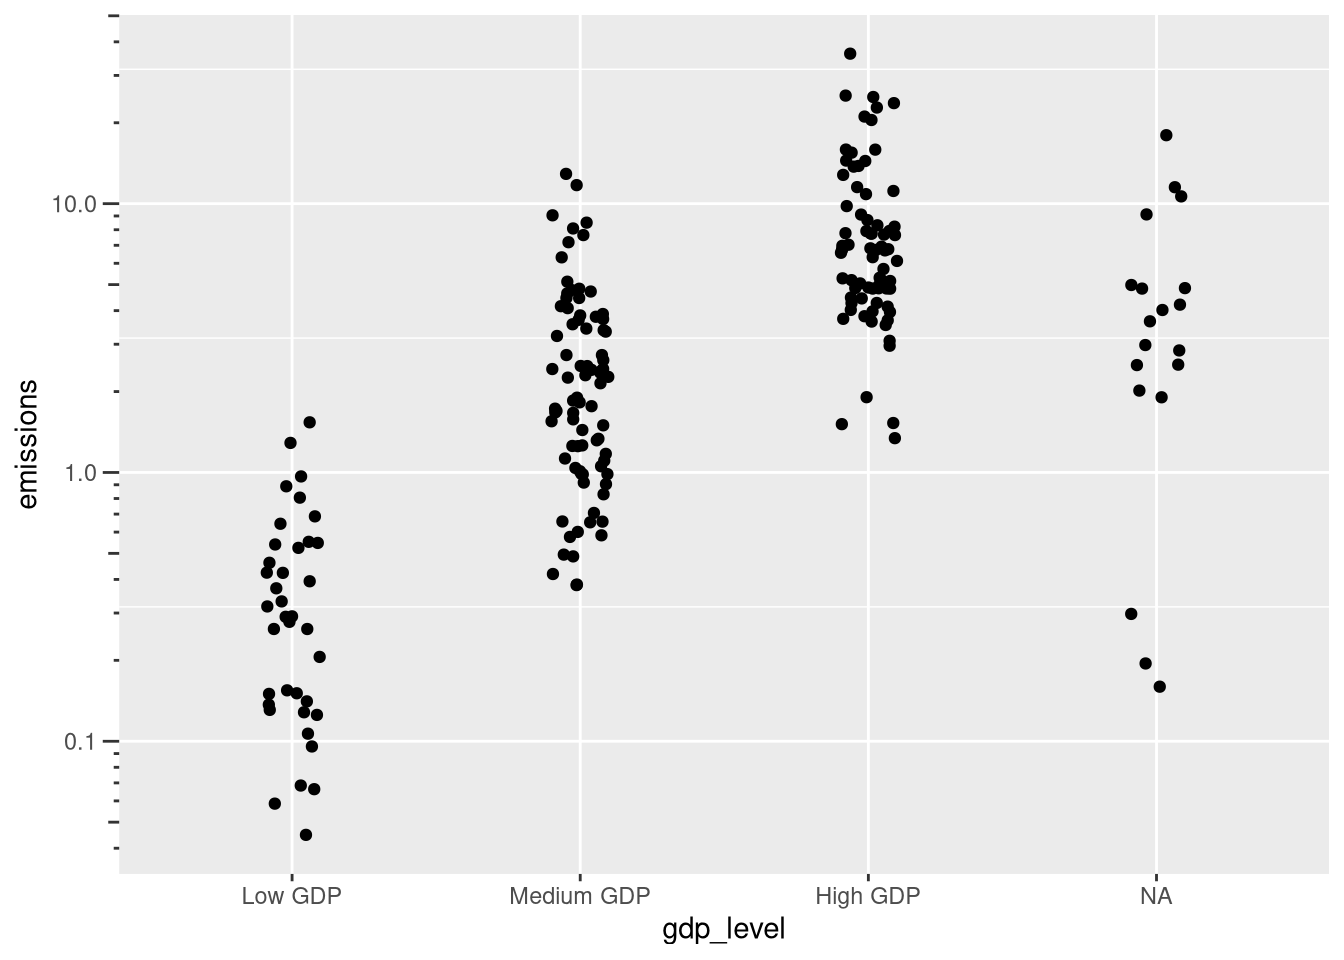
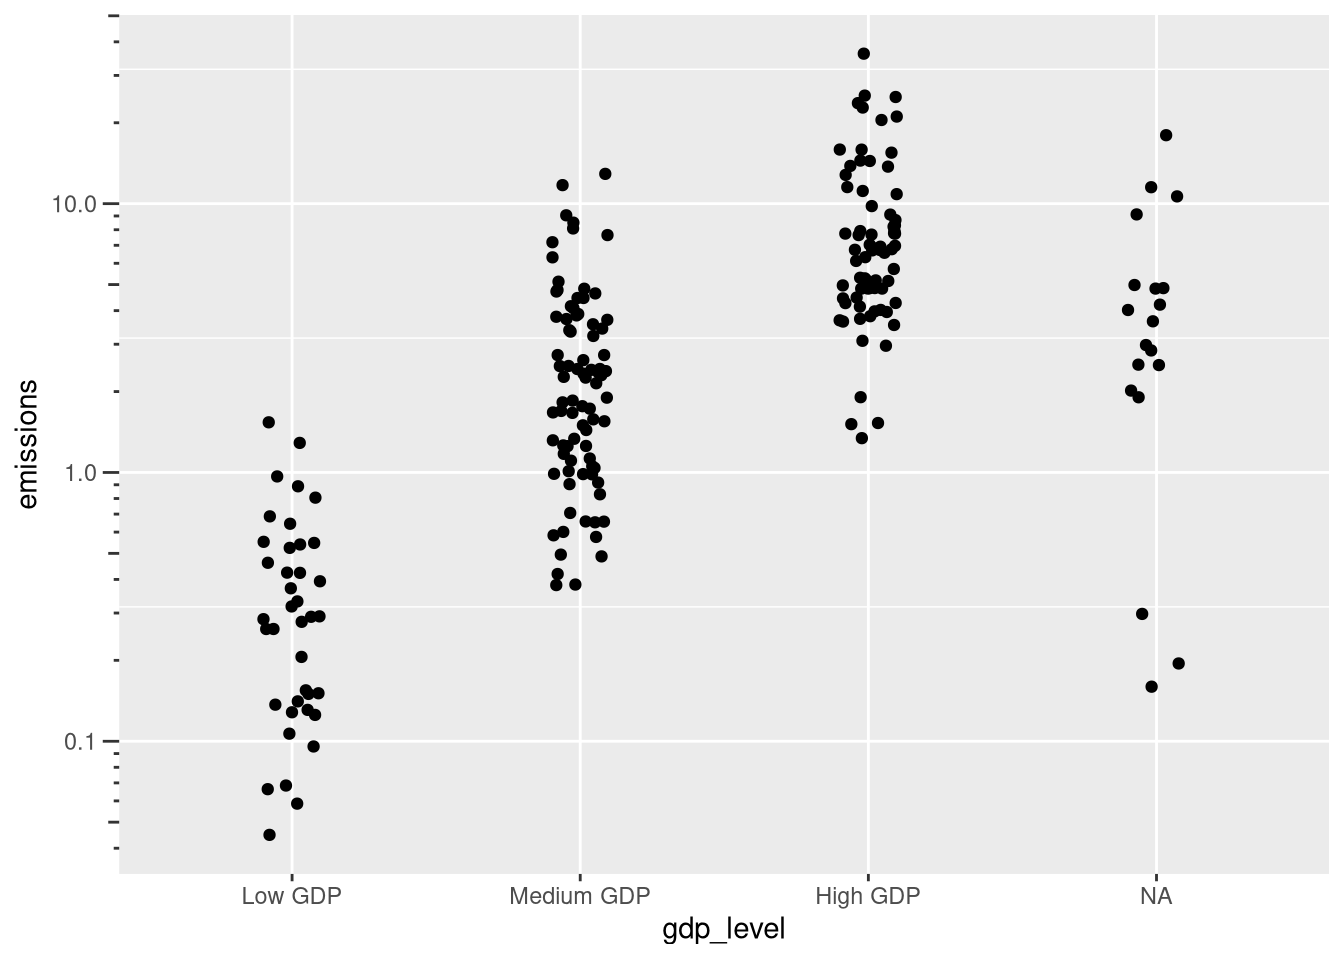
Built site for gh-pages

diff --git a/casestudy-russiantv.html b/casestudy-russiantv.html
@@ -607,25 +607,25 @@ Coefficients:
 
     <script>
       // Create table-specific functions using external factory
-      const tableFns_8jwqr6ajxb0kf2ckfnkp = TinyTable.createTableFunctions("tinytable_8jwqr6ajxb0kf2ckfnkp");
+      const tableFns_ovyquf9bfhemy3r7jgev = TinyTable.createTableFunctions("tinytable_ovyquf9bfhemy3r7jgev");
       // tinytable span after
       window.addEventListener('load', function () {
           var cellsToStyle = [
             // tinytable style arrays after
-          { positions: [ { i: '5', j: 2 }, { i: '5', j: 3 } ], css_id: 'tinytable_css_zzr68w9kdlm906glo2x7',}, 
-          { positions: [ { i: '3', j: 2 }, { i: '3', j: 3 } ], css_id: 'tinytable_css_hu5nlrqi4i80ql5340to',}, 
-          { positions: [ { i: '1', j: 2 }, { i: '2', j: 2 }, { i: '4', j: 2 }, { i: '1', j: 3 }, { i: '2', j: 3 }, { i: '4', j: 3 } ], css_id: 'tinytable_css_3wdfo0fb289xu79ceppo',}, 
-          { positions: [ { i: '0', j: 2 }, { i: '0', j: 3 } ], css_id: 'tinytable_css_uf6ou8qopa1rtyc8undp',}, 
-          { positions: [ { i: '5', j: 1 } ], css_id: 'tinytable_css_8b7qnewe60gjw511335b',}, 
-          { positions: [ { i: '3', j: 1 } ], css_id: 'tinytable_css_x076yketpejrcp84g8yp',}, 
-          { positions: [ { i: '1', j: 1 }, { i: '2', j: 1 }, { i: '4', j: 1 } ], css_id: 'tinytable_css_zzwcf379so7w7ry6woa0',}, 
-          { positions: [ { i: '0', j: 1 } ], css_id: 'tinytable_css_brjepgxdksvnj9o5ipqp',}, 
+          { positions: [ { i: '5', j: 2 }, { i: '5', j: 3 } ], css_id: 'tinytable_css_h3q77afd5m40k5takec2',}, 
+          { positions: [ { i: '3', j: 2 }, { i: '3', j: 3 } ], css_id: 'tinytable_css_e8yqaawf4k1b5vhmomdc',}, 
+          { positions: [ { i: '1', j: 2 }, { i: '2', j: 2 }, { i: '4', j: 2 }, { i: '1', j: 3 }, { i: '2', j: 3 }, { i: '4', j: 3 } ], css_id: 'tinytable_css_0io3rbuwyfp37hijxdfh',}, 
+          { positions: [ { i: '0', j: 2 }, { i: '0', j: 3 } ], css_id: 'tinytable_css_7hitr4jle2zg0gors1cu',}, 
+          { positions: [ { i: '5', j: 1 } ], css_id: 'tinytable_css_myno3lpi7fzjzax8vp7h',}, 
+          { positions: [ { i: '3', j: 1 } ], css_id: 'tinytable_css_39lb835f4ahaccj81fgu',}, 
+          { positions: [ { i: '1', j: 1 }, { i: '2', j: 1 }, { i: '4', j: 1 } ], css_id: 'tinytable_css_9wkvimfz0kmyf5eyolwc',}, 
+          { positions: [ { i: '0', j: 1 } ], css_id: 'tinytable_css_ynerbrkfg0nca6aa4p4l',}, 
           ];
 
           // Loop over the arrays to style the cells
           cellsToStyle.forEach(function (group) {
               group.positions.forEach(function (cell) {
-                  tableFns_8jwqr6ajxb0kf2ckfnkp.styleCell(cell.i, cell.j, group.css_id);
+                  tableFns_ovyquf9bfhemy3r7jgev.styleCell(cell.i, cell.j, group.css_id);
               });
           });
       });
@@ -634,17 +634,17 @@ Coefficients:
     <link rel="stylesheet" href="https://cdn.jsdelivr.net/gh/vincentarelbundock/tinytable@main/inst/tinytable.css">
     <style>
     /* tinytable css entries after */
-    #tinytable_8jwqr6ajxb0kf2ckfnkp td.tinytable_css_zzr68w9kdlm906glo2x7, #tinytable_8jwqr6ajxb0kf2ckfnkp th.tinytable_css_zzr68w9kdlm906glo2x7 {  position: relative; --border-bottom: 1; --border-left: 0; --border-right: 0; --border-top: 0; --line-color-bottom: var(--tt-line-color); --line-color-left: var(--tt-line-color); --line-color-right: var(--tt-line-color); --line-color-top: var(--tt-line-color); --line-width-bottom: 0.1em; --line-width-left: 0.1em; --line-width-right: 0.1em; --line-width-top: 0.1em; --trim-bottom-left: 0%; --trim-bottom-right: 0%; --trim-left-bottom: 0%; --trim-left-top: 0%; --trim-right-bottom: 0%; --trim-right-top: 0%; --trim-top-left: 0%; --trim-top-right: 0%; ; text-align: center }
-    #tinytable_8jwqr6ajxb0kf2ckfnkp td.tinytable_css_hu5nlrqi4i80ql5340to, #tinytable_8jwqr6ajxb0kf2ckfnkp th.tinytable_css_hu5nlrqi4i80ql5340to {  position: relative; --border-bottom: 1; --border-left: 0; --border-right: 0; --border-top: 0; --line-color-bottom: var(--tt-line-color); --line-color-left: var(--tt-line-color); --line-color-right: var(--tt-line-color); --line-color-top: var(--tt-line-color); --line-width-bottom: 0.05em; --line-width-left: 0.1em; --line-width-right: 0.1em; --line-width-top: 0.1em; --trim-bottom-left: 0%; --trim-bottom-right: 0%; --trim-left-bottom: 0%; --trim-left-top: 0%; --trim-right-bottom: 0%; --trim-right-top: 0%; --trim-top-left: 0%; --trim-top-right: 0%; ; text-align: center }
-    #tinytable_8jwqr6ajxb0kf2ckfnkp td.tinytable_css_3wdfo0fb289xu79ceppo, #tinytable_8jwqr6ajxb0kf2ckfnkp th.tinytable_css_3wdfo0fb289xu79ceppo { text-align: center }
-    #tinytable_8jwqr6ajxb0kf2ckfnkp td.tinytable_css_uf6ou8qopa1rtyc8undp, #tinytable_8jwqr6ajxb0kf2ckfnkp th.tinytable_css_uf6ou8qopa1rtyc8undp {  position: relative; --border-bottom: 1; --border-left: 0; --border-right: 0; --border-top: 1; --line-color-bottom: var(--tt-line-color); --line-color-left: var(--tt-line-color); --line-color-right: var(--tt-line-color); --line-color-top: var(--tt-line-color); --line-width-bottom: 0.05em; --line-width-left: 0.1em; --line-width-right: 0.1em; --line-width-top: 0.1em; --trim-bottom-left: 0%; --trim-bottom-right: 0%; --trim-left-bottom: 0%; --trim-left-top: 0%; --trim-right-bottom: 0%; --trim-right-top: 0%; --trim-top-left: 0%; --trim-top-right: 0%; ; text-align: center }
-    #tinytable_8jwqr6ajxb0kf2ckfnkp td.tinytable_css_8b7qnewe60gjw511335b, #tinytable_8jwqr6ajxb0kf2ckfnkp th.tinytable_css_8b7qnewe60gjw511335b {  position: relative; --border-bottom: 1; --border-left: 0; --border-right: 0; --border-top: 0; --line-color-bottom: var(--tt-line-color); --line-color-left: var(--tt-line-color); --line-color-right: var(--tt-line-color); --line-color-top: var(--tt-line-color); --line-width-bottom: 0.1em; --line-width-left: 0.1em; --line-width-right: 0.1em; --line-width-top: 0.1em; --trim-bottom-left: 0%; --trim-bottom-right: 0%; --trim-left-bottom: 0%; --trim-left-top: 0%; --trim-right-bottom: 0%; --trim-right-top: 0%; --trim-top-left: 0%; --trim-top-right: 0%; ; text-align: left }
-    #tinytable_8jwqr6ajxb0kf2ckfnkp td.tinytable_css_x076yketpejrcp84g8yp, #tinytable_8jwqr6ajxb0kf2ckfnkp th.tinytable_css_x076yketpejrcp84g8yp {  position: relative; --border-bottom: 1; --border-left: 0; --border-right: 0; --border-top: 0; --line-color-bottom: var(--tt-line-color); --line-color-left: var(--tt-line-color); --line-color-right: var(--tt-line-color); --line-color-top: var(--tt-line-color); --line-width-bottom: 0.05em; --line-width-left: 0.1em; --line-width-right: 0.1em; --line-width-top: 0.1em; --trim-bottom-left: 0%; --trim-bottom-right: 0%; --trim-left-bottom: 0%; --trim-left-top: 0%; --trim-right-bottom: 0%; --trim-right-top: 0%; --trim-top-left: 0%; --trim-top-right: 0%; ; text-align: left }
-    #tinytable_8jwqr6ajxb0kf2ckfnkp td.tinytable_css_zzwcf379so7w7ry6woa0, #tinytable_8jwqr6ajxb0kf2ckfnkp th.tinytable_css_zzwcf379so7w7ry6woa0 { text-align: left }
-    #tinytable_8jwqr6ajxb0kf2ckfnkp td.tinytable_css_brjepgxdksvnj9o5ipqp, #tinytable_8jwqr6ajxb0kf2ckfnkp th.tinytable_css_brjepgxdksvnj9o5ipqp {  position: relative; --border-bottom: 1; --border-left: 0; --border-right: 0; --border-top: 1; --line-color-bottom: var(--tt-line-color); --line-color-left: var(--tt-line-color); --line-color-right: var(--tt-line-color); --line-color-top: var(--tt-line-color); --line-width-bottom: 0.05em; --line-width-left: 0.1em; --line-width-right: 0.1em; --line-width-top: 0.1em; --trim-bottom-left: 0%; --trim-bottom-right: 0%; --trim-left-bottom: 0%; --trim-left-top: 0%; --trim-right-bottom: 0%; --trim-right-top: 0%; --trim-top-left: 0%; --trim-top-right: 0%; ; text-align: left }
+    #tinytable_ovyquf9bfhemy3r7jgev td.tinytable_css_h3q77afd5m40k5takec2, #tinytable_ovyquf9bfhemy3r7jgev th.tinytable_css_h3q77afd5m40k5takec2 {  position: relative; --border-bottom: 1; --border-left: 0; --border-right: 0; --border-top: 0; --line-color-bottom: var(--tt-line-color); --line-color-left: var(--tt-line-color); --line-color-right: var(--tt-line-color); --line-color-top: var(--tt-line-color); --line-width-bottom: 0.1em; --line-width-left: 0.1em; --line-width-right: 0.1em; --line-width-top: 0.1em; --trim-bottom-left: 0%; --trim-bottom-right: 0%; --trim-left-bottom: 0%; --trim-left-top: 0%; --trim-right-bottom: 0%; --trim-right-top: 0%; --trim-top-left: 0%; --trim-top-right: 0%; ; text-align: center }
+    #tinytable_ovyquf9bfhemy3r7jgev td.tinytable_css_e8yqaawf4k1b5vhmomdc, #tinytable_ovyquf9bfhemy3r7jgev th.tinytable_css_e8yqaawf4k1b5vhmomdc {  position: relative; --border-bottom: 1; --border-left: 0; --border-right: 0; --border-top: 0; --line-color-bottom: var(--tt-line-color); --line-color-left: var(--tt-line-color); --line-color-right: var(--tt-line-color); --line-color-top: var(--tt-line-color); --line-width-bottom: 0.05em; --line-width-left: 0.1em; --line-width-right: 0.1em; --line-width-top: 0.1em; --trim-bottom-left: 0%; --trim-bottom-right: 0%; --trim-left-bottom: 0%; --trim-left-top: 0%; --trim-right-bottom: 0%; --trim-right-top: 0%; --trim-top-left: 0%; --trim-top-right: 0%; ; text-align: center }
+    #tinytable_ovyquf9bfhemy3r7jgev td.tinytable_css_0io3rbuwyfp37hijxdfh, #tinytable_ovyquf9bfhemy3r7jgev th.tinytable_css_0io3rbuwyfp37hijxdfh { text-align: center }
+    #tinytable_ovyquf9bfhemy3r7jgev td.tinytable_css_7hitr4jle2zg0gors1cu, #tinytable_ovyquf9bfhemy3r7jgev th.tinytable_css_7hitr4jle2zg0gors1cu {  position: relative; --border-bottom: 1; --border-left: 0; --border-right: 0; --border-top: 1; --line-color-bottom: var(--tt-line-color); --line-color-left: var(--tt-line-color); --line-color-right: var(--tt-line-color); --line-color-top: var(--tt-line-color); --line-width-bottom: 0.05em; --line-width-left: 0.1em; --line-width-right: 0.1em; --line-width-top: 0.1em; --trim-bottom-left: 0%; --trim-bottom-right: 0%; --trim-left-bottom: 0%; --trim-left-top: 0%; --trim-right-bottom: 0%; --trim-right-top: 0%; --trim-top-left: 0%; --trim-top-right: 0%; ; text-align: center }
+    #tinytable_ovyquf9bfhemy3r7jgev td.tinytable_css_myno3lpi7fzjzax8vp7h, #tinytable_ovyquf9bfhemy3r7jgev th.tinytable_css_myno3lpi7fzjzax8vp7h {  position: relative; --border-bottom: 1; --border-left: 0; --border-right: 0; --border-top: 0; --line-color-bottom: var(--tt-line-color); --line-color-left: var(--tt-line-color); --line-color-right: var(--tt-line-color); --line-color-top: var(--tt-line-color); --line-width-bottom: 0.1em; --line-width-left: 0.1em; --line-width-right: 0.1em; --line-width-top: 0.1em; --trim-bottom-left: 0%; --trim-bottom-right: 0%; --trim-left-bottom: 0%; --trim-left-top: 0%; --trim-right-bottom: 0%; --trim-right-top: 0%; --trim-top-left: 0%; --trim-top-right: 0%; ; text-align: left }
+    #tinytable_ovyquf9bfhemy3r7jgev td.tinytable_css_39lb835f4ahaccj81fgu, #tinytable_ovyquf9bfhemy3r7jgev th.tinytable_css_39lb835f4ahaccj81fgu {  position: relative; --border-bottom: 1; --border-left: 0; --border-right: 0; --border-top: 0; --line-color-bottom: var(--tt-line-color); --line-color-left: var(--tt-line-color); --line-color-right: var(--tt-line-color); --line-color-top: var(--tt-line-color); --line-width-bottom: 0.05em; --line-width-left: 0.1em; --line-width-right: 0.1em; --line-width-top: 0.1em; --trim-bottom-left: 0%; --trim-bottom-right: 0%; --trim-left-bottom: 0%; --trim-left-top: 0%; --trim-right-bottom: 0%; --trim-right-top: 0%; --trim-top-left: 0%; --trim-top-right: 0%; ; text-align: left }
+    #tinytable_ovyquf9bfhemy3r7jgev td.tinytable_css_9wkvimfz0kmyf5eyolwc, #tinytable_ovyquf9bfhemy3r7jgev th.tinytable_css_9wkvimfz0kmyf5eyolwc { text-align: left }
+    #tinytable_ovyquf9bfhemy3r7jgev td.tinytable_css_ynerbrkfg0nca6aa4p4l, #tinytable_ovyquf9bfhemy3r7jgev th.tinytable_css_ynerbrkfg0nca6aa4p4l {  position: relative; --border-bottom: 1; --border-left: 0; --border-right: 0; --border-top: 1; --line-color-bottom: var(--tt-line-color); --line-color-left: var(--tt-line-color); --line-color-right: var(--tt-line-color); --line-color-top: var(--tt-line-color); --line-width-bottom: 0.05em; --line-width-left: 0.1em; --line-width-right: 0.1em; --line-width-top: 0.1em; --trim-bottom-left: 0%; --trim-bottom-right: 0%; --trim-left-bottom: 0%; --trim-left-top: 0%; --trim-right-bottom: 0%; --trim-right-top: 0%; --trim-top-left: 0%; --trim-top-right: 0%; ; text-align: left }
     </style>
     <div class="container">
-      <table class="tinytable" id="tinytable_8jwqr6ajxb0kf2ckfnkp" style="width: auto; margin-left: auto; margin-right: auto;" data-quarto-disable-processing="true">
+      <table class="tinytable" id="tinytable_ovyquf9bfhemy3r7jgev" style="width: auto; margin-left: auto; margin-right: auto;" data-quarto-disable-processing="true">
         
         <thead>
               <tr>
@@ -688,7 +688,7 @@ Coefficients:
 </div>
 <p>The table contains standard errors alongside coefficient estimates. Because they are relatively small considering the effect sizes, we can conclude that our estimates reflect substantive relationships in the data and not just statistical noise from data collection.</p>
 <p>The validity of the above estimate as an estimate of the causal effect of exposure to Russian TV depends on the assumption that there are no other confounders. This assumption in turn would require a careful discussion of the case at hand and the characteristics of the data generating process.</p>
-<p>Note also that the need to account for confounders does not mean we should just add as many variables as possible to a regression to ‘control for everything’. Just as adjusting for a confounder de-biases an otherwise biased estimate, we can actively bias an estimate by controlling for the wrong variables. An important category of variables that we <em>shouldn’t</em> control for are <strong>post-treatment variables</strong>. These reflect variables which are themselves causally affected by the treatment variable and including them masks the real causal effect of the treatment. Imagine, e.g., that we had also received data on respondents attitudes towards Russia. These would likely be at least partly a consequence of exposure to Russian state TV and adjusting for them in a multiple regression model would accordingly bias the estimate of the total causal effect of Russian TV receptioneffect of Russian TV reception.</p>
+<p>Note also that the need to account for confounders does not mean we should just add as many variables as possible to a regression to ‘control for everything’. Just as adjusting for a confounder de-biases an otherwise biased estimate, we can actively bias an estimate by controlling for the wrong variables. An important category of variables that we <em>shouldn’t</em> control for are <strong>post-treatment variables</strong>. These reflect variables which are themselves causally affected by the treatment variable and including them masks the real causal effect of the treatment. Imagine, e.g., that we had also received data on respondents’ attitudes towards Russia. These would likely be at least partly a consequence of exposure to Russian state TV and adjusting for them in a multiple regression model would accordingly bias the estimate of the total causal effect of receiving Russian TV.</p>
 
 
 </section>

diff --git a/08-linear-regression.html b/08-linear-regression.html
@@ -362,11 +362,11 @@ window.Quarto = {
 <h1>Linear regression</h1>
 <p>The probably most widely used model of a statistical relationship is <em>linear regression</em>, which models an outcome <span class="math inline">\(y\)</span> as a function of a predictor <span class="math inline">\(x\)</span>. As before, we don’t presume to fully understand the variation in the outcome <span class="math inline">\(y\)</span> and thus model it as random. The most common choice is the normal distribution (which we have seen before):</p>
 <p><span class="math display">\[
-y \sim \textrm{Normal}(\mu, \sigma)
+Y_i \sim \textrm{Normal}(\mu, \sigma)
 \]</span></p>
 <p>This time, however, we treat <span class="math inline">\(\mu\)</span> (the mean of the distribution) not just as a parameter to be set or estimated, but as a function of a predictor <span class="math inline">\(x\)</span>. The simplest functional form of the relationship is just a line:</p>
 <p><span class="math display">\[
-\mu = \alpha + x \beta
+\mu = \alpha + \beta X_i
 \]</span></p>
 <p>Instead of just two parameters, this model now has three: The line parameters <span class="math inline">\(\alpha\)</span> (the <em>intercept</em>) and <span class="math inline">\(\beta\)</span> (the <em>slope</em>), which together determine the mean of the outcome <span class="math inline">\(y\)</span>, conditional on <span class="math inline">\(x\)</span>x), and the standard deviation <span class="math inline">\(\sigma\)</span>, which determines the amount of random variation around the mean.</p>
 <section id="simulating-linear-regression" class="level2">

diff --git a/06-statistical-models.html b/06-statistical-models.html
@@ -501,11 +501,11 @@ window.Quarto = {
 <div class="cell">
 <div class="code-copy-outer-scaffold"><div class="sourceCode cell-code" id="cb4"><pre class="sourceCode r code-with-copy"><code class="sourceCode r"><span id="cb4-1"><a href="#cb4-1" aria-hidden="true" tabindex="-1"></a><span class="fu">mean</span>(simulations)</span></code></pre></div><button title="Copy to Clipboard" class="code-copy-button"><i class="bi"></i></button></div>
 <div class="cell-output cell-output-stdout">
-<pre><code>[1] 165.4044</code></pre>
+<pre><code>[1] 166.89</code></pre>
 </div>
 <div class="code-copy-outer-scaffold"><div class="sourceCode cell-code" id="cb6"><pre class="sourceCode r code-with-copy"><code class="sourceCode r"><span id="cb6-1"><a href="#cb6-1" aria-hidden="true" tabindex="-1"></a><span class="fu">sd</span>(simulations)</span></code></pre></div><button title="Copy to Clipboard" class="code-copy-button"><i class="bi"></i></button></div>
 <div class="cell-output cell-output-stdout">
-<pre><code>[1] 7.665971</code></pre>
+<pre><code>[1] 6.685776</code></pre>
 </div>
 </div>
 <p>We can see that while the observed mean and SD are close to the values of 166 and 7 specified when we simulated the data, the are not exactly the same due to the randomness inherent to the DGP.</p>

diff --git a/casestudy-eurostat.html b/casestudy-eurostat.html
@@ -335,7 +335,7 @@ pre > code.sourceCode > span > a:first-child::before { text-decoration: underlin
 <div class="cell">
 <div class="code-copy-outer-scaffold"><div class="sourceCode cell-code" id="cb2"><pre class="sourceCode r code-with-copy"><code class="sourceCode r"><span id="cb2-1"><a href="#cb2-1" aria-hidden="true" tabindex="-1"></a>dat <span class="ot">&lt;-</span> <span class="fu">get_eurostat</span>(<span class="at">id =</span> <span class="st">"ilc_peps11"</span>, <span class="at">time_format =</span> <span class="st">"num"</span>)</span></code></pre></div><button title="Copy to Clipboard" class="code-copy-button"><i class="bi"></i></button></div>
 <div class="cell-output cell-output-stderr">
-<pre><code>Table ilc_peps11 cached at /tmp/RtmpkePlYA/eurostat/3c1f5516b5a6de14f96ba1424345cb64.rds</code></pre>
+<pre><code>Table ilc_peps11 cached at /tmp/RtmpPE9ufu/eurostat/3c1f5516b5a6de14f96ba1424345cb64.rds</code></pre>
 </div>
 </div>
 <div class="cell">

diff --git a/07-globe-tossing.html b/07-globe-tossing.html
@@ -369,7 +369,7 @@ window.Quarto = {
 <div class="cell-output cell-output-stdout">
 <pre><code>throws
  0  1 
-26 74 </code></pre>
+38 62 </code></pre>
 </div>
 </div>
 <p>However, we usually don’t know the model parameters beforehand and instead have to estimate them from data. The next section will discuss how to do this.</p>
